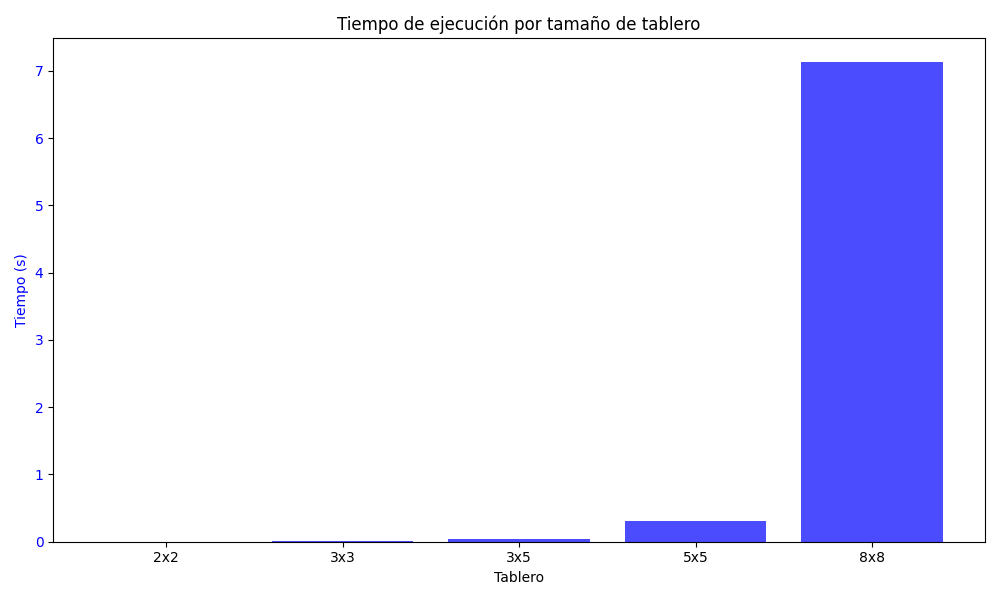
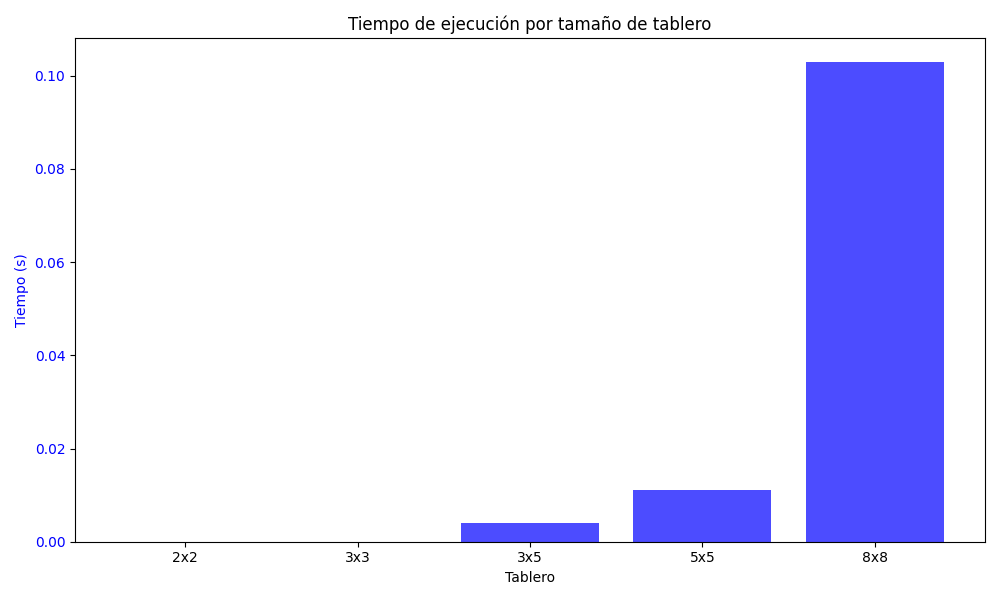
WIP ptimizaciones
- Se han dejado de generar las expansiones no validas y se han sustituido por celdas amenzadas BoardCell.THREATED
- En el coste se ha dejado de contar caballos amenazados y solo se cuentan los pasos len(path) y se minimizan los caballos puestos que ahora todos son correctos
- Se ha optimizado la funcion is_solution

diff --git a/ia_practica_1/utils/chart_creator.py b/ia_practica_1/utils/chart_creator.py
@@ -9,7 +9,7 @@ imgs_path = Path.cwd() / "ia_practica_1/imgs"
 def create_byb_chart():
     # Datos de la tabla
     tableros = ["2x2", "3x3", "3x5", "5x5", "8x8"]
-    tiempos = [0.000, 0.008, 0.040, 0.315, 7.134]
+    tiempos = [0.000, 0.000, 0.004, 0.011, 0.103]
     # caballos = [4, 4, 5, 10, 24]
 
     # Crear la figura y los ejes
